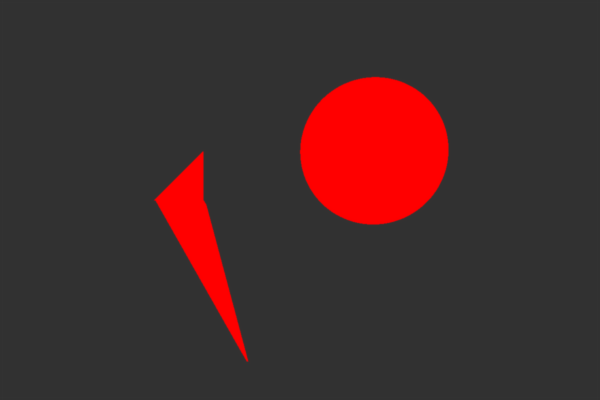
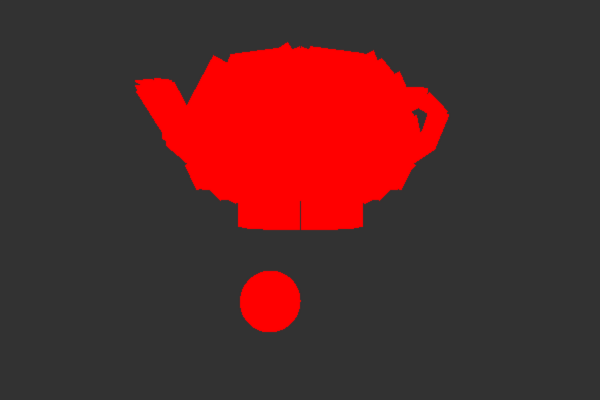
customize camera y-axis

Changed region(s): [[0.21, 0.09, 0.75, 0.9]]

diff --git a/src/main.rs b/src/main.rs
@@ -48,6 +48,7 @@ struct Color {
 struct Camera {
     eye: Point,
     target: Point,
+    up: UnitVector,
     aspect: Float,
     fovy: Float,
     z_near: Float,
@@ -55,6 +56,8 @@ struct Camera {
 }
 
 type Point = nalgebra::Point3<Float>;
+
+type UnitVector = nalgebra::Unit<Vector>;
 
 struct RendererSettings {
     definition: Integer,
@@ -158,7 +161,7 @@ impl Color {
 fn render(scene: &Scene, camera: &Camera, settings: &RendererSettings) {
     let projection_matrix =
         nalgebra::Perspective3::new(camera.aspect, camera.fovy, camera.z_near, camera.z_far);
-    let view_matrix = nalgebra::Isometry3::look_at_rh(&camera.eye, &camera.target, &Vector::y());
+    let view_matrix = nalgebra::Isometry3::look_at_rh(&camera.eye, &camera.target, &camera.up);
     let height = (settings.definition * settings.anti_aliasing) as Float;
     let width = height * camera.aspect;
     let render_pixel = |x, y| {
@@ -170,11 +173,8 @@ fn render(scene: &Scene, camera: &Camera, settings: &RendererSettings) {
         let target = view_matrix.inverse_transform_point(
             &projection_matrix.unproject_point(&Point::new(mvp_x, mvp_y, 1.0)),
         );
-        let origin_to_target = target - origin;
-        let max_t = origin_to_target.norm();
-        let direction = origin_to_target.unscale(max_t);
-        let color = march_ray(origin, direction, max_t, scene, settings);
-        color
+        let (direction, max_distance) = UnitVector::new_and_get(target - origin);
+        march_ray(origin, direction, max_distance, scene, settings)
     };
     let bar = indicatif::ProgressBar::new((width * height) as u64);
     bar.set_style(
@@ -208,14 +208,14 @@ fn render(scene: &Scene, camera: &Camera, settings: &RendererSettings) {
 
 fn march_ray(
     origin: Point,
-    direction: Vector,
-    max_t: Float,
+    direction: UnitVector,
+    max_distance: Float,
     scene: &Scene,
     settings: &RendererSettings,
 ) -> Color {
     let mut t = 0.0;
-    while t < max_t {
-        let point = origin + t * direction;
+    while t < max_distance {
+        let point = origin + t * direction.into_inner();
         let (mesh, distance) = scene
             .iter()
             .map(|mesh| (mesh, mesh.geometry.distance(&point, settings)))
@@ -252,14 +252,15 @@ fn main() {
             ]),
             material: red_material,
         },
-        // Mesh {
-        //     geometry: load_obj("teapot-low.obj"),
-        //     material: red_material,
-        // },
+        Mesh {
+            geometry: load_obj("teapot-low.obj"),
+            material: red_material,
+        },
     ];
     let camera = Camera {
-        eye: Point::new(0.0, 0.0, 10.0),
+        eye: Point::new(0.0, 50.0, 0.0),
         target: Point::new(0.0, 0.0, 0.0),
+        up: nalgebra::Unit::new_unchecked(Vector::new(0.0, 0.0, 1.0)),
         aspect: 3.0 / 2.0,
         fovy: 3.14 / 4.0,
         z_near: 1.0,
@@ -267,7 +268,7 @@ fn main() {
     };
     let settings = RendererSettings {
         definition: 400,
-        anti_aliasing: 2,
+        anti_aliasing: 1,
         epsilon: 0.001,
         ambient_color: Color::new(0.2, 0.2, 0.2),
     };
@@ -308,19 +309,17 @@ fn load_obj(path: &str) -> Geometry {
                         .map(|index| points.get(index - 1).expect("cannot find vertex at index"))
                         .collect::<Vec<&Point>>();
                     assert!(points.len() == 3 || points.len() == 4);
-                    if points.len() == 3 {
-                        faces.push(Geometry::triangle([
-                            **points.get(0).unwrap(),
-                            **points.get(1).unwrap(),
-                            **points.get(2).unwrap(),
-                        ]))
-                    } else {
+                    faces.push(Geometry::triangle([
+                        **points.get(0).unwrap(),
+                        **points.get(1).unwrap(),
+                        **points.get(2).unwrap(),
+                    ]));
+                    if points.len() == 4 {
                         faces.push(Geometry::triangle_strip(vec![
-                            **points.get(0).unwrap(),
-                            **points.get(1).unwrap(),
                             **points.get(2).unwrap(),
                             **points.get(3).unwrap(),
-                        ]))
+                            **points.get(0).unwrap(),
+                        ]));
                     }
                 }
                 _ => (),
